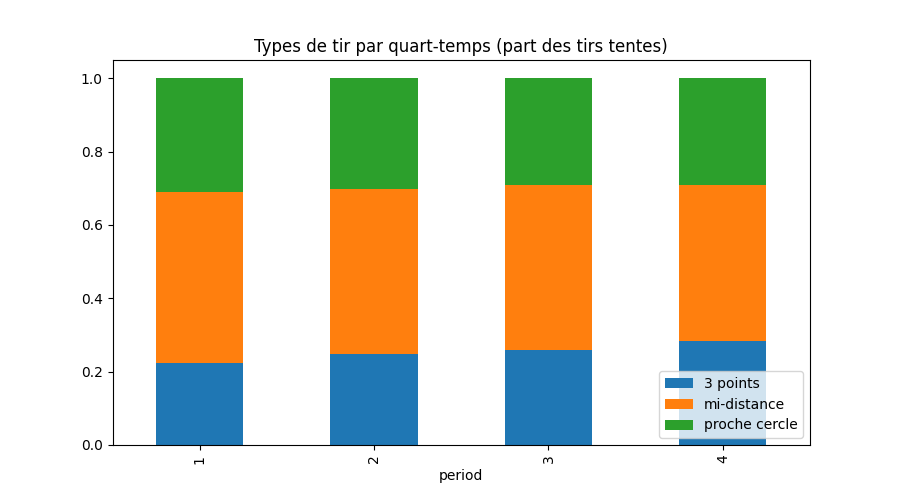
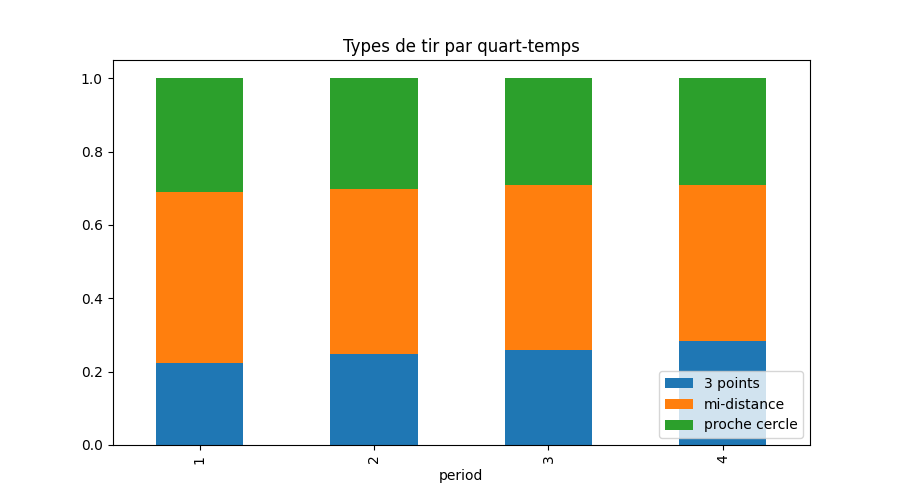
Pipeline en scripts : ingest Kaggle + prepare + analyses
jobs/ingest_kaggle.py : download anonyme via kagglehub -> data/archive/
  (--hdfs : pousse les CSV vers la zone brute hdfs:///nba/raw)
jobs/prepare.py       : CSV -> pbp enrichi -> parquet HDFS (valide : 13592899 events)
jobs/analyses.py      : agregats -> 14 collections Mongo + 10 PNG resultats/

Le notebook reste pour la demo/doc ; les scripts sont le workflow canonique.

Generated with [Devin](https://devin.ai)

Changed region(s): [[0.28, 0.06, 0.7467, 0.12]]

diff --git a/jobs/analyses.py b/jobs/analyses.py
@@ -1,0 +1,232 @@
+"""Analyses : parquet HDFS -> agregats -> MongoDB + PNGs dans /work/resultats.
+
+    python3 /work/jobs/analyses.py   (dans le conteneur jupyter)
+"""
+import json
+import matplotlib
+matplotlib.use("Agg")
+import matplotlib.pyplot as plt
+import pandas as pd
+import pymongo
+from pyspark.sql import SparkSession, functions as F, Window
+
+RES = "/work/resultats"
+spark = SparkSession.builder.appName("nba-analyses").getOrCreate()
+
+rs = spark.read.parquet("hdfs://namenode:9000/nba/pbp").filter(F.col("season_type") == "Regular Season")
+game = spark.read.option("header", "true").csv("/work/data/archive/csv/game.csv")
+RESULTATS = {}
+n_matchs = rs.select("game_id").distinct().count()
+print("matchs RS:", n_matchs)
+
+# --- 2. Deroule d'un match ---------------------------------------------------
+par_min = (rs.filter(F.col("sec") < 2880).withColumn("minute", F.floor(F.col("sec") / 60))
+    .groupBy("minute")
+    .agg(F.count(F.when(F.col("eventmsgtype") == 6, 1)).alias("fautes"),
+         F.count(F.when(F.col("eventmsgtype") == 5, 1)).alias("pertes"),
+         F.sum("pts").alias("pts"))
+    .orderBy("minute").toPandas())
+par_min[["fautes", "pertes", "pts"]] /= n_matchs
+RESULTATS["actions_minute"] = par_min
+
+fig, ax = plt.subplots(1, 2, figsize=(14, 4))
+ax[0].plot(par_min.minute, par_min.pts); ax[0].set_title("Points marques par minute de jeu")
+ax[0].set_xlabel("minute"); ax[0].axvline(24, ls="--", c="grey")
+ax[1].plot(par_min.minute, par_min.fautes, label="fautes")
+ax[1].plot(par_min.minute, par_min.pertes, label="pertes de balle")
+ax[1].set_title("Fautes et pertes de balle par minute"); ax[1].legend()
+for x in (12, 24, 36): ax[1].axvline(x, ls="--", c="grey")
+plt.tight_layout(); plt.savefig(f"{RES}/02_actions_minute.png"); plt.close()
+
+par_qt = (rs.filter(F.col("period") <= 4).groupBy("period")
+    .agg((F.count(F.when(F.col("eventmsgtype") == 6, 1)) / (n_matchs * 12)).alias("fautes_min"),
+         (F.count(F.when(F.col("eventmsgtype") == 5, 1)) / (n_matchs * 12)).alias("pertes_min"),
+         (F.count(F.when(F.col("eventmsgtype").isin(1, 2), 1)) / (n_matchs * 12)).alias("tirs_min"),
+         (F.sum("pts") / (n_matchs * 12)).alias("pts_min"))
+    .orderBy("period").toPandas())
+RESULTATS["par_quart_temps"] = par_qt
+par_qt.plot(x="period", kind="bar", figsize=(10, 4), title="Rythme par quart-temps (par minute de jeu)")
+plt.savefig(f"{RES}/02_quart_temps.png"); plt.close()
+
+# --- 3. Choix de tir ---------------------------------------------------------
+saisons = (game.filter(F.col("season_type") == "Regular Season")
+    .withColumn("annee", F.col("season_id").cast("int") - 20000)
+    .withColumn("t3", F.col("fg3a_home").cast("double") + F.col("fg3a_away").cast("double"))
+    .withColumn("tt", F.col("fga_home").cast("double") + F.col("fga_away").cast("double"))
+    .groupBy("annee")
+    .agg((F.sum("t3") / F.sum("tt")).alias("part_3pts"),
+         (F.avg(F.col("pts_home").cast("double")) + F.avg(F.col("pts_away").cast("double"))).alias("pts_match"))
+    .orderBy("annee").toPandas())
+RESULTATS["tirs_par_saison"] = saisons
+
+fig, ax = plt.subplots(figsize=(10, 4))
+ax.plot(saisons.annee, saisons.part_3pts * 100); ax.set_ylabel("% tirs a 3 pts")
+ax2 = ax.twinx(); ax2.plot(saisons.annee, saisons.pts_match, c="orange", alpha=.6)
+ax2.set_ylabel("pts / match / equipe", c="orange"); ax.set_title("Le recul du tir a mi-distance")
+plt.savefig(f"{RES}/03_evolution_3pts.png"); plt.close()
+
+tirs_qt = (rs.filter(F.col("tir").isNotNull() & (F.col("period") <= 4))
+    .groupBy("period", "tir").count().toPandas()
+    .pivot(index="period", columns="tir", values="count").fillna(0))
+tirs_qt = tirs_qt.div(tirs_qt.sum(axis=1), axis=0)
+RESULTATS["tirs_par_quart"] = tirs_qt.reset_index()
+tirs_qt.plot(kind="bar", stacked=True, figsize=(9, 5), title="Types de tir par quart-temps")
+plt.legend(loc="lower right"); plt.savefig(f"{RES}/03_tirs_quart.png"); plt.close()
+
+assist = (rs.filter(F.col("eventmsgtype") == 1)
+    .withColumn("decennie", (F.col("annee") / 10).cast("int") * 10)
+    .groupBy("decennie")
+    .agg(F.mean(F.col("passeur").isNotNull().cast("int")).alias("part_assistee"))
+    .orderBy("decennie").toPandas())
+RESULTATS["assist_decennie"] = assist
+
+par_equipe = (rs.filter((F.col("eventmsgtype") == 1) & (F.col("annee") >= 2014))
+    .groupBy("player1_team_abbreviation")
+    .agg(F.mean(F.col("passeur").isNotNull().cast("int")).alias("part_assistee"))
+    .orderBy(F.desc("part_assistee")).toPandas())
+RESULTATS["assist_equipe"] = par_equipe
+
+fig, ax = plt.subplots(1, 2, figsize=(14, 4))
+ax[0].plot(assist.decennie, assist.part_assistee * 100, marker="o")
+ax[0].set_title("% de paniers apres passe decisive"); ax[0].set_ylabel("%")
+par_equipe.plot(x="player1_team_abbreviation", y="part_assistee", kind="bar",
+                ax=ax[1], title="Assist % par equipe (depuis 2014-15)", legend=False)
+plt.tight_layout(); plt.savefig(f"{RES}/03_assists.png"); plt.close()
+
+# --- 4. Strategies de fin de match -------------------------------------------
+rs4 = rs.filter(F.col("period") == 4)
+n4 = rs4.select("game_id").distinct().count()
+fin = rs4.filter(F.col("rest") <= 120).withColumn(
+    "marge_side", F.when(F.col("side") == "H", F.col("marge_dom")).otherwise(-F.col("marge_dom")))
+
+fautes_fin = fin.filter(F.col("eventmsgtype") == 6)
+n_fin = fautes_fin.count()
+n_reste = rs.filter(~((F.col("period") == 4) & (F.col("rest") <= 120))) \
+            .filter(F.col("eventmsgtype") == 6).count()
+taux = pd.DataFrame({
+    "moment": ["reste du match (moy. par 2 min)", "2 dernieres min du 4e QT"],
+    "fautes_par_match": [n_reste / n_matchs / 23, n_fin / n4]})
+
+par_sit = (fautes_fin.groupBy(F.when(F.col("marge_side") < 0, "equipe menee")
+                             .when(F.col("marge_side") > 0, "equipe menante")
+                             .otherwise("egalite").alias("qui_faute"))
+    .count().toPandas())
+RESULTATS["fautes_fin"] = par_sit
+
+fig, ax = plt.subplots(1, 2, figsize=(12, 4))
+ax[0].bar(taux.moment, taux.fautes_par_match); ax[0].set_title("Fautes par fenetre de 2 min")
+ax[1].bar(par_sit.qui_faute, par_sit["count"])
+ax[1].set_title("Qui commet les fautes dans les 2 dern. min ?")
+plt.tight_layout(); plt.savefig(f"{RES}/04_fautes.png"); plt.close()
+
+sc = rs.filter((F.col("pts") > 0) & (F.col("period") == 4) & (F.col("rest") <= 300))
+w2 = Window.partitionBy("game_id", "side").orderBy("sec")
+sc = (sc.withColumn("delta", F.col("sec") - F.lag("sec").over(w2))
+        .withColumn("marge_side", F.when(F.col("side") == "H", F.col("marge_dom")).otherwise(-F.col("marge_dom"))))
+rythme = (sc.filter(F.col("delta").isNotNull() & (F.col("delta") < 200))
+    .groupBy(F.when(F.col("marge_side") > 0, "equipe menante").otherwise("equipe menee").alias("situation"))
+    .agg(F.round(F.avg("delta"), 1).alias("sec_entre_pts"), F.count("*").alias("n"))
+    .toPandas())
+RESULTATS["ralentissement"] = rythme
+rythme.plot(x="situation", y="sec_entre_pts", kind="bar", legend=False,
+            title="Intervalle moyen entre 2 paniers (5 dern. min du 4e QT)")
+plt.ylabel("secondes"); plt.savefig(f"{RES}/04_chrono.png"); plt.close()
+
+to = rs.filter((F.col("eventmsgtype") == 9) & (F.col("period") == 4)) \
+       .select("game_id", "eventnum", "sec", "rest", "side")
+sc4 = rs.filter((F.col("pts") > 0) & (F.col("period") == 4)) \
+        .select("game_id", "sec", "side", "pts")
+
+dist_to = (to.withColumn("min_restante", F.floor(F.col("rest") / 60))
+    .groupBy("min_restante").count().orderBy("min_restante").toPandas())
+RESULTATS["timeouts_distrib"] = dist_to
+
+avant = (to.alias("t").join(sc4.alias("s"),
+            (F.col("t.game_id") == F.col("s.game_id"))
+            & F.col("s.sec").between(F.col("t.sec") - 120, F.col("t.sec") - 1), "left")
+    .groupBy(F.col("t.game_id"), F.col("t.eventnum"), F.col("t.sec"), F.col("t.side"))
+    .agg(F.sum(F.when(F.col("s.side") != F.col("t.side"), F.col("s.pts"))).alias("adv"),
+         F.sum(F.when(F.col("s.side") == F.col("t.side"), F.col("s.pts"))).alias("propres"))
+    .fillna(0)
+    .withColumn("run_adv", F.col("adv") - F.col("propres") >= 8))
+
+apres = (avant.alias("t").join(sc4.alias("s"),
+            (F.col("t.game_id") == F.col("s.game_id"))
+            & F.col("s.sec").between(F.col("t.sec"), F.col("t.sec") + 60)
+            & (F.col("s.side") != F.col("t.side")), "left")
+    .groupBy(F.col("t.game_id"), F.col("t.eventnum"), F.col("t.run_adv"))
+    .agg(F.count(F.col("s.pts")).alias("pts_adv_60s"))
+    .withColumn("casse", F.col("pts_adv_60s") == 0))
+
+eff = (apres.groupBy("run_adv")
+    .agg(F.count("*").alias("n"), F.mean(F.col("casse").cast("int")).alias("taux_casse"))
+    .toPandas())
+RESULTATS["timeouts_efficacite"] = eff
+
+fig, ax = plt.subplots(1, 2, figsize=(13, 4))
+ax[0].bar(dist_to.min_restante, dist_to["count"]); ax[0].invert_xaxis()
+ax[0].set_title("Temps morts du 4e QT par minute restante")
+ax[1].bar(eff.run_adv.map({True: "pendant un run adv.", False: "hors run"}), eff.taux_casse * 100)
+ax[1].set_title("% de temps morts qui cassent la serie (0 pt adverse sur 60s)")
+plt.tight_layout(); plt.savefig(f"{RES}/04_timeouts.png"); plt.close()
+
+# --- 5. Runs & remontees ------------------------------------------------------
+sc_all = rs.filter(F.col("pts") > 0).select("game_id", "eventnum", "sec", "period", "side", "pts")
+w3 = Window.partitionBy("game_id").orderBy("eventnum")
+sc_all = (sc_all.withColumn("new", F.when(F.col("side") != F.lag("side").over(w3), 1).otherwise(0))
+                .withColumn("gid", F.sum("new").over(w3)))
+runs = (sc_all.groupBy("game_id", "gid")
+    .agg(F.first("side").alias("side"), F.sum("pts").alias("taille"),
+         F.min("period").alias("period"), F.min("sec").alias("debut"))
+    .filter(F.col("taille") >= 8))
+
+nb_runs = runs.count()
+par_match = runs.groupBy("game_id").count().groupBy().avg("count").first()[0]
+taille_moy = runs.groupBy().avg("taille").first()[0]
+par_per = runs.groupBy("period").count().orderBy("period").toPandas()
+top = runs.orderBy(F.desc("taille")).limit(10).toPandas()
+RESULTATS["runs_resume"] = pd.DataFrame({"nb_runs": [nb_runs], "par_match": [par_match],
+                                         "taille_moy": [taille_moy]})
+RESULTATS["runs_par_periode"] = par_per
+RESULTATS["top_runs"] = top
+print(f"runs >= 8 pts : {nb_runs}  ({par_match:.2f} par match, {taille_moy:.1f} pts)")
+
+fig, ax = plt.subplots(1, 2, figsize=(12, 4))
+runs.select("taille").toPandas().plot.hist(bins=30, ax=ax[0], title="Ampleur des runs (>=8 pts)")
+ax[1].bar(par_per.period, par_per["count"]); ax[1].set_title("Runs par quart-temps")
+plt.tight_layout(); plt.savefig(f"{RES}/05_runs.png"); plt.close()
+
+marges = (rs.filter(F.col("side").isin("H", "A") & F.col("score_f").isNotNull())
+    .withColumn("marge_side", F.when(F.col("side") == "H", F.col("marge_dom")).otherwise(-F.col("marge_dom")))
+    .withColumn("gagne", F.when((F.col("side") == "H") & (F.col("wl_home") == "W"), True)
+                         .when((F.col("side") == "A") & (F.col("wl_home") == "L"), True)
+                         .otherwise(False)))
+deficit = (marges.groupBy("game_id", "side")
+    .agg((-F.min("marge_side")).alias("deficit_max"), F.first("gagne").alias("gagne"))
+    .withColumn("tranche", F.when(F.col("deficit_max") <= 0, "0")
+                           .when(F.col("deficit_max") <= 4, "01-04")
+                           .when(F.col("deficit_max") <= 9, "05-09")
+                           .when(F.col("deficit_max") <= 14, "10-14")
+                           .when(F.col("deficit_max") <= 19, "15-19")
+                           .otherwise("20+")))
+taux = (deficit.groupBy("tranche").agg(F.mean(F.col("gagne").cast("int")).alias("win_pct"),
+                                       F.count("*").alias("n"))
+    .toPandas().sort_values("tranche").reset_index(drop=True))
+RESULTATS["remontees"] = taux
+
+plt.figure(figsize=(8, 4))
+plt.bar(taux.tranche, taux.win_pct * 100)
+plt.title("Victoire selon le plus gros deficit subi dans le match"); plt.ylabel("% victoires")
+for i, r in taux.iterrows(): plt.text(i, r.win_pct * 100 + 1, f"n={r.n}", ha="center", fontsize=8)
+plt.savefig(f"{RES}/05_remontees.png"); plt.close()
+
+# --- 6. Persistance Mongo ------------------------------------------------------
+mongo = pymongo.MongoClient("mongodb://mongo:27017")["nba"]
+for nom, df in RESULTATS.items():
+    col = mongo[nom]
+    col.drop()
+    col.insert_many(json.loads(df.to_json(orient="records")))
+    print(f"{nom}: {col.count_documents({})} docs")
+
+spark.stop()
+print("analyses terminees")

diff --git a/jobs/prepare.py b/jobs/prepare.py
@@ -1,0 +1,54 @@
+"""Preparation : CSV -> play-by-play enrichi -> parquet HDFS.
+
+    python3 /work/jobs/prepare.py   (dans le conteneur jupyter)
+"""
+from pyspark.sql import SparkSession, functions as F, Window
+
+CSV = "/work/data/archive/csv"
+OUT = "hdfs://namenode:9000/nba/pbp"
+
+spark = SparkSession.builder.appName("nba-prepare").getOrCreate()
+
+pbp_raw = spark.read.option("header", "true").csv(f"{CSV}/play_by_play.csv")
+game = spark.read.option("header", "true").csv(f"{CSV}/game.csv")
+
+w = Window.partitionBy("game_id").orderBy("eventnum").rowsBetween(Window.unboundedPreceding, 0)
+
+pbp = (pbp_raw.select("game_id", "eventnum", "eventmsgtype", "period",
+                      "pctimestring", "score",
+                      F.col("homedescription").alias("hd"), F.col("visitordescription").alias("vd"),
+                      "player1_name", "player1_team_abbreviation",
+                      F.col("player2_name").alias("passeur"))
+    .withColumn("eventnum", F.col("eventnum").cast("int"))
+    .withColumn("eventmsgtype", F.col("eventmsgtype").cast("int"))
+    .withColumn("period", F.col("period").cast("int"))
+    .withColumn("rest", F.split("pctimestring", ":").getItem(0).cast("int") * 60
+                      + F.split("pctimestring", ":").getItem(1).cast("int"))
+    .withColumn("sec", F.when(F.col("period") <= 4, (F.col("period") - 1) * 720 + 720 - F.col("rest"))
+                       .otherwise(2880 + (F.col("period") - 5) * 300 + 300 - F.col("rest")))
+    .withColumn("side", F.when(F.col("hd").isNotNull(), "H")
+                        .when(F.col("vd").isNotNull(), "A").otherwise("N"))
+    .withColumn("descr", F.coalesce("hd", "vd"))
+    .withColumn("pts", F.when(F.col("eventmsgtype") == 1,
+                              F.when(F.col("descr").contains("3PT"), 3).otherwise(2))
+                       .when((F.col("eventmsgtype") == 3) & (~F.col("descr").contains("MISS")), 1)
+                       .otherwise(0))
+    .withColumn("tir", F.when(F.col("descr").contains("3PT"), "3 points")
+                       .when(F.col("descr").rlike("Dunk|Layup|Tip|Alley Oop|Finger Roll"), "proche cercle")
+                       .when(F.col("eventmsgtype").isin(1, 2), "mi-distance"))
+    .withColumn("score_f", F.last(F.when(F.length("score") > 0, F.col("score")), True).over(w))
+    .withColumn("marge_dom", F.split("score_f", " - ").getItem(1).cast("int")
+                           - F.split("score_f", " - ").getItem(0).cast("int")))
+
+# dropDuplicates : les matchs All-Star sont listes 2x dans game.csv
+g = (game.select("game_id", "season_id", "game_date", "season_type", "wl_home",
+                 "team_abbreviation_home", "team_abbreviation_away")
+        .dropDuplicates(["game_id"])
+        .withColumn("annee", F.col("season_id").cast("int") - 20000))
+
+pbp = pbp.join(g, "game_id")
+pbp.write.mode("overwrite").parquet(OUT)
+
+n = spark.read.parquet(OUT).count()
+print(f"evenements ecrits dans {OUT} : {n}")
+spark.stop()

diff --git a/jobs/ingest_kaggle.py b/jobs/ingest_kaggle.py
@@ -1,0 +1,70 @@
+"""Ingestion : telecharge le dataset Kaggle -> data/archive/ (+ option --hdfs).
+
+Usage (dans le conteneur jupyter) :
+    python3 /work/jobs/ingest_kaggle.py            # download + extract
+    python3 /work/jobs/ingest_kaggle.py --hdfs     # + pousse les CSV vers hdfs:///nba/raw
+
+kagglehub telecharge les datasets publics sans credentials
+(kaggle.json utilise automatiquement si present dans ./.kaggle).
+"""
+import argparse
+import os
+import shutil
+
+import requests
+
+DATASET = "wyattowalsh/basketball"
+NAMENODE = "http://namenode:9870"
+HDFS_RAW = "/nba/raw"
+
+
+def download(dest):
+    import kagglehub
+    os.makedirs(dest, exist_ok=True)
+    print(f"telechargement {DATASET} ...")
+    cache = kagglehub.dataset_download(DATASET)
+    print(f"cache kagglehub : {cache}")
+    for item in os.listdir(cache):
+        s, d = os.path.join(cache, item), os.path.join(dest, item)
+        if os.path.isdir(s):
+            shutil.copytree(s, d, dirs_exist_ok=True)
+        else:
+            shutil.copy2(s, d)
+    print(f"extrait dans {dest} :", sorted(os.listdir(dest)))
+
+
+def put_webhdfs(local_path, hdfs_path):
+    """Upload d'un fichier vers HDFS via WebHDFS (CREATE + redirect datanode)."""
+    mkdir = requests.put(
+        f"{NAMENODE}/webhdfs/v1{os.path.dirname(hdfs_path)}"
+        f"?op=MKDIRS&user.name=root", timeout=30)
+    mkdir.raise_for_status()
+    r = requests.put(
+        f"{NAMENODE}/webhdfs/v1{hdfs_path}?op=CREATE&overwrite=true&user.name=root",
+        allow_redirects=False, timeout=30)
+    r.raise_for_status()
+    with open(local_path, "rb") as f:
+        up = requests.put(r.headers["Location"], data=f, timeout=600)
+    up.raise_for_status()
+    print(f"  -> {hdfs_path} ({os.path.getsize(local_path) / 1e6:.0f} Mo)")
+
+
+def push_csvs_to_hdfs(csv_dir):
+    csvs = sorted(f for f in os.listdir(csv_dir) if f.endswith(".csv"))
+    print(f"push {len(csvs)} csv -> hdfs://namenode:9000{HDFS_RAW}/")
+    for f in csvs:
+        put_webhdfs(os.path.join(csv_dir, f), f"{HDFS_RAW}/{f}")
+
+
+if __name__ == "__main__":
+    ap = argparse.ArgumentParser()
+    ap.add_argument("--dest", default="/work/data/archive",
+                    help="dossier d'extraction du dataset")
+    ap.add_argument("--hdfs", action="store_true",
+                    help="pousse aussi les CSV vers la zone brute HDFS /nba/raw")
+    args = ap.parse_args()
+
+    download(args.dest)
+    if args.hdfs:
+        push_csvs_to_hdfs(os.path.join(args.dest, "csv"))
+    print("ingestion terminee")

diff --git a/README.md b/README.md
@@ -32,9 +32,14 @@ Pas de Kafka : la donnée est historique (batch), pas un flux temps réel — Ka
 ## Lancer
 
 ```bash
-docker compose up -d          # monte spark master/worker/history, jupyter, mongo, hdfs
-# dataset : placer l'extraction Kaggle dans data/archive/ (non versionne, ~4,5 Go)
-# jupyter : http://localhost:8888 -> notebooks/analyse_nba.ipynb
+docker compose up -d          # monte spark master/worker/history, jupyter, mongo, hdfs, dashboard
+
+# pipeline (dans le conteneur jupyter)
+docker exec projetgroupe-jupyter-1 python3 /work/jobs/ingest_kaggle.py   # Kaggle -> data/archive/ (anonyme)
+docker exec projetgroupe-jupyter-1 python3 /work/jobs/prepare.py         # CSV -> parquet HDFS /nba/pbp
+docker exec projetgroupe-jupyter-1 python3 /work/jobs/analyses.py        # parquet -> Mongo + resultats/*.png
+
+# jupyter : http://localhost:8888 -> notebooks/analyse_nba.ipynb (meme pipeline, interactif)
 # spark UI : http://localhost:8080 | HDFS : http://localhost:9870 | history : http://localhost:18080
 # dashboard : http://localhost:8501 (Streamlit, lit les collections Mongo)
 ```
@@ -48,7 +53,11 @@ docker compose up -d          # monte spark master/worker/history, jupyter, mong
 
 ## Structure
 
-- `notebooks/analyse_nba.ipynb` — pipeline + analyses exécutées (le cœur du projet)
+- `jobs/` — pipeline en scripts (workflow propre) :
+  - `ingest_kaggle.py` — télécharge le dataset Kaggle → `data/archive/` (`--hdfs` : pousse aussi vers `hdfs:///nba/raw`)
+  - `prepare.py` — CSV → play-by-play enrichi → parquet `hdfs:///nba/pbp`
+  - `analyses.py` — agrégats → MongoDB (14 collections) + `resultats/*.png`
+- `notebooks/analyse_nba.ipynb` — même pipeline en interactif (doc + démo)
 - `notebooks/gen_nb.py` — générateur du notebook
 - `dashboard/app.py` — dashboard Streamlit (couche serving Mongo → Plotly)
 - `docker-compose.yml`, `hadoop.env`, `docker/`, `conf/` — environnement
